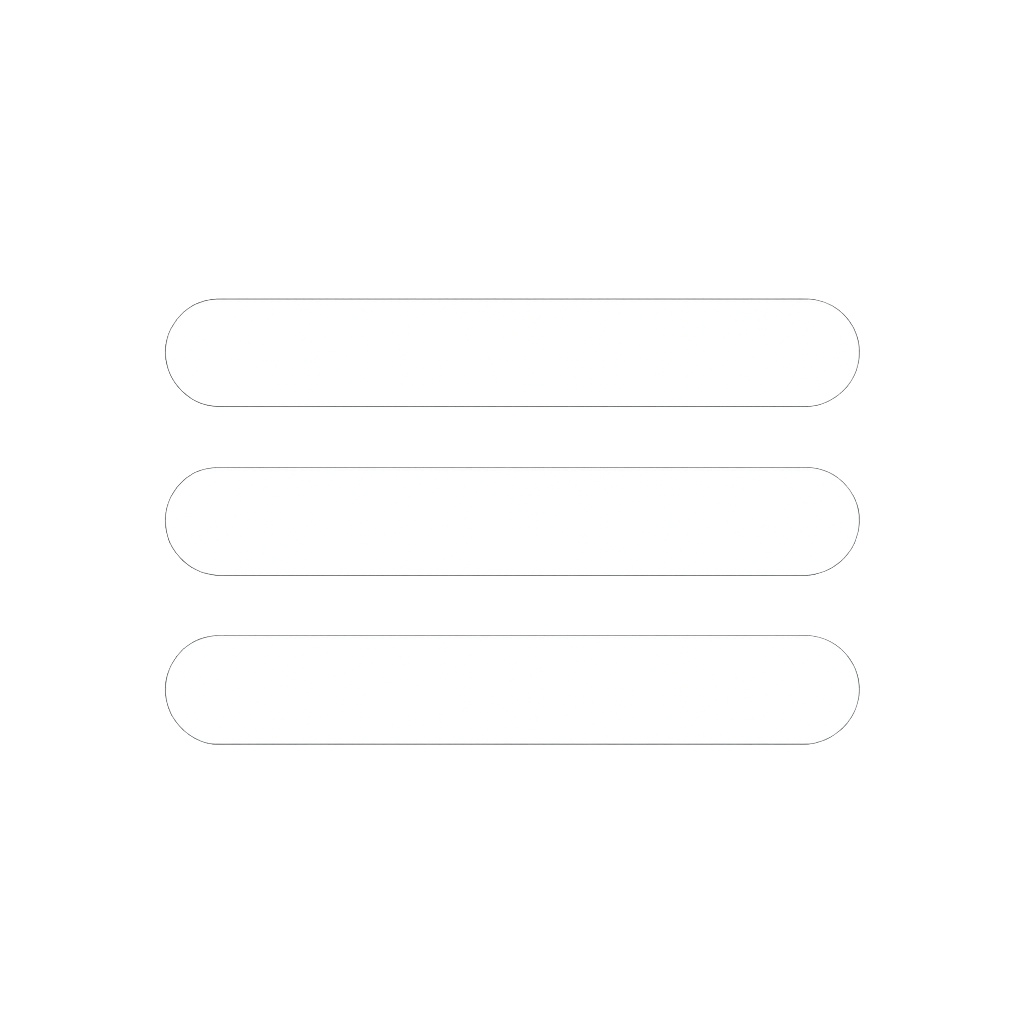
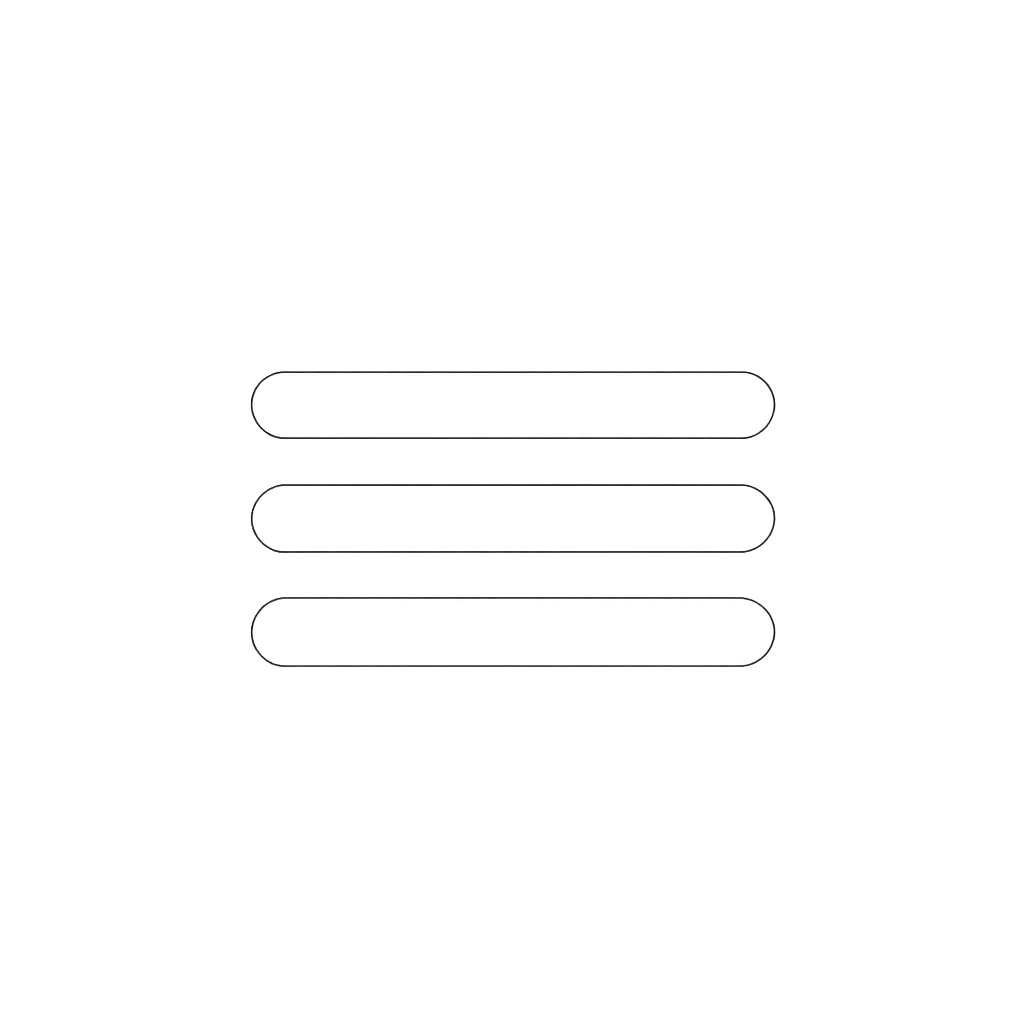
ham menu style

Changed region(s): [[0.75, 0.375, 0.7812, 0.4062]]

diff --git a/src/Navbar.css b/src/Navbar.css
@@ -5,9 +5,8 @@
 }
 
 .navbar-lineIcon img {
-  width: 113px;
-  height: 100px;
-  margin-top: -5px;
+  height: 16vmin;
+  margin-top: -15px;
 }
 
 .navbar-links {
@@ -21,7 +20,7 @@
   align-items: flex-end;
   min-width: 150px;
   border-radius: 0 0 8px 8px;
-  box-shadow: 0 2px 8px white;
+  /* box-shadow: 0 2px 8px white; */
 }
 
 .navbar-links a {

diff --git a/src/App.css b/src/App.css
@@ -66,10 +66,11 @@
 
 .lineDivider {
   width: 100%;
-  height: 95%;
-  margin-top: 0px;
+  height: 90%;
+  margin-top: 3px;
   object-fit: cover;
   z-index:  2;
+  margin-left: 10px;
 }
 
 /*CSS for home section/intro section of page*/
